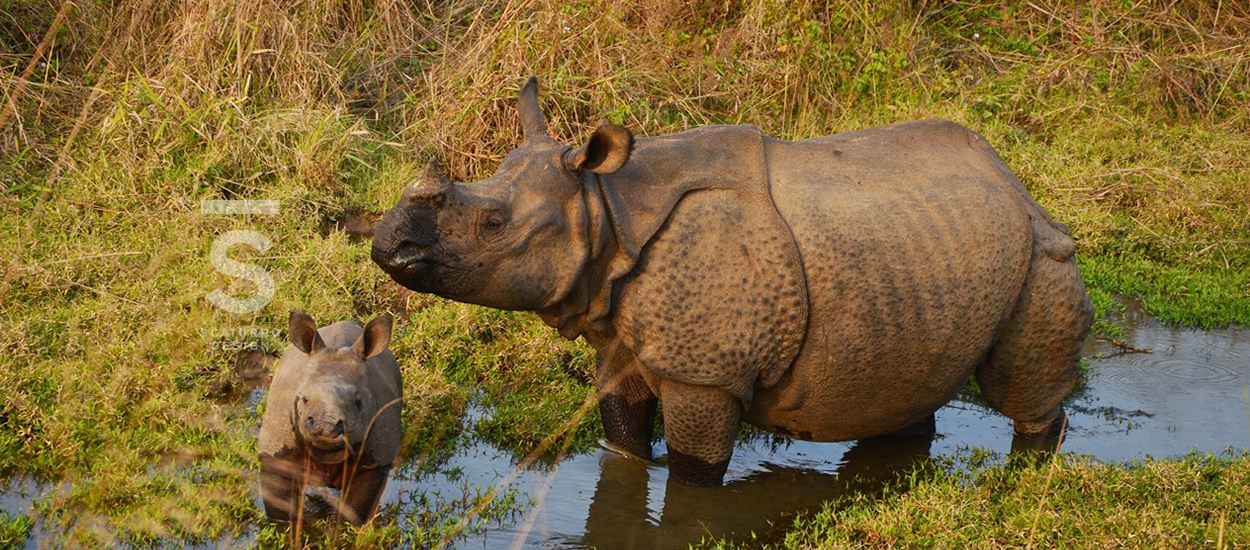
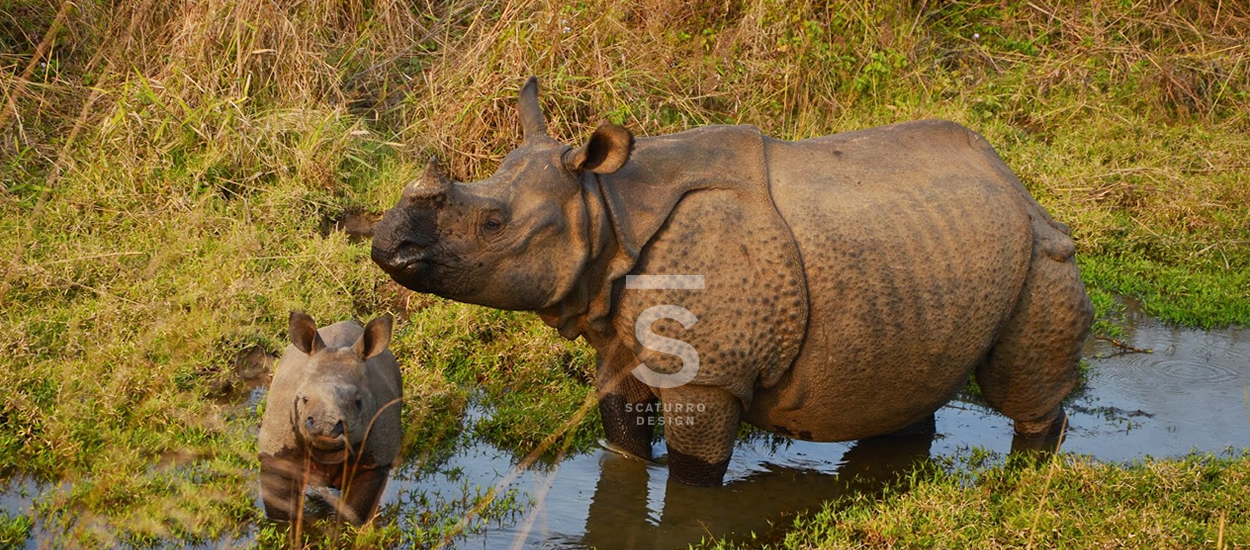
watermark

Changed region(s): [[0.156, 0.34, 0.2496, 0.6491], [0.4992, 0.5564, 0.5616, 0.7727], [0.4992, 0.4945, 0.5616, 0.5255]]

diff --git a/index.js b/index.js
@@ -5,50 +5,62 @@ var port = process.env.PORT || 8080;
 var path = require('path');
 var watermark = require('image-watermark');
 var Jimp = require('jimp');
+var sizeOf = require('image-size');
 
 
 
-var option = { 'text': 'sample watermark' };
+// var option = { 'text': 'sample watermark' };
+// app.get('/watermark', function (req, res) {
+//   // res.send('done');
+//   // return
+//   // watermark.embedWatermarkWithCb('./public/src/image1.jpg', option)
+//   watermark.embedWatermarkWithCb('./public/src/image1.jpg', { 'text': 'sample watermark' }, function (err) {
+//     if (!err)
+//       console.log('Succefully embeded watermark');
+//     else {
+//       console.log(err);
+//     }
+//   });
+// })
+
+
+
+
+
+let imgRaw = './public/src/chitwan.jpg';
+let imgLogo = './public/img/logo.png';
+let imgExported = './public/src/image1.jpg';
+
+
 app.get('/watermark', function (req, res) {
-  // res.send('done');
-  // return
-  // watermark.embedWatermarkWithCb('./public/src/image1.jpg', option)
-  watermark.embedWatermarkWithCb('./public/src/image1.jpg', { 'text': 'sample watermark' }, function (err) {
-    if (!err)
-      console.log('Succefully embeded watermark');
-    else {
-      console.log(err);
-    }
+  sizeOf(imgRaw, function (err, dimensions) {
+    console.log(dimensions.width, dimensions.height);
+    Jimp.read(imgRaw)
+      .then(tpl =>
+        Jimp.read(imgLogo).then(logoTpl => {
+          logoTpl.opacity(0.4);
+          console.log(dimensions.width, dimensions.height);
+          const height=dimensions.height;
+          const width=dimensions.width;
+          console.log(height/2,width/2);
+          console.log(tpl.getHeight(),tpl.getWidth());
+          return tpl.composite(logoTpl,
+            width/2,
+            height/2,
+            // (dimensions.height) / 2, //Height from Top
+            // (dimensions.width) / 2, //Width from left corner
+            Jimp.HORIZONTAL_ALIGN_CENTER | Jimp.VERTICAL_ALIGN_MIDDLE);
+        }))
+      .then(tpl => (tpl.quality(100).write(imgExported)))
+      .then(tpl => {
+        console.log('exported file: ' + imgExported);
+      })
+      .catch(err => {
+        console.error(err);
+      });
+    res.send("Check");
   });
 })
-
-
-
-
-
-// let imgRaw = './public/src/chitwan.jpg'; 
-// let imgLogo = './public/img/logo.png';
-// let imgExported = './public/src/image1.jpg';
-
-// app.get('/watermark', function (req, res) {
-//   Jimp.read(imgRaw)
-//     .then(tpl =>
-//       Jimp.read(imgLogo).then(logoTpl => {
-//         logoTpl.opacity(0.4);
-//         return tpl.composite(logoTpl,
-//           200, //Height from Top
-//           200, //Width from left corner
-//           Jimp.HORIZONTAL_ALIGN_CENTER | Jimp.VERTICAL_ALIGN_MIDDLE);
-//       }))
-//     .then(tpl => (tpl.quality(100).write(imgExported)))
-//     .then(tpl => {
-//       console.log('exported file: ' + imgExported);
-//     })
-//     .catch(err => {
-//       console.error(err);
-//     });
-//   res.send("Check");
-// })
 
 app.use(express.static("public"))
 app.listen(port);

diff --git a/public/index.html b/public/index.html
@@ -25,7 +25,6 @@
       </div>
     </div>
   </div>
-
   <script>
     // simple composite image
     watermark(['src/chitwan.jpg', 'src/administrator-male.png'])
